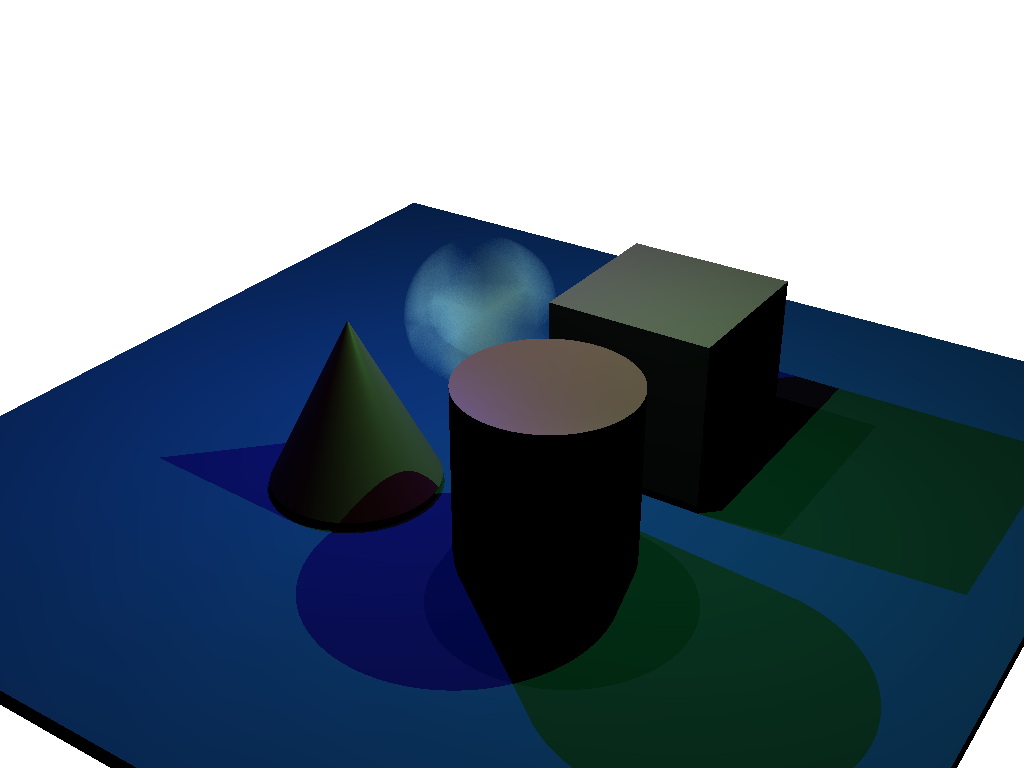
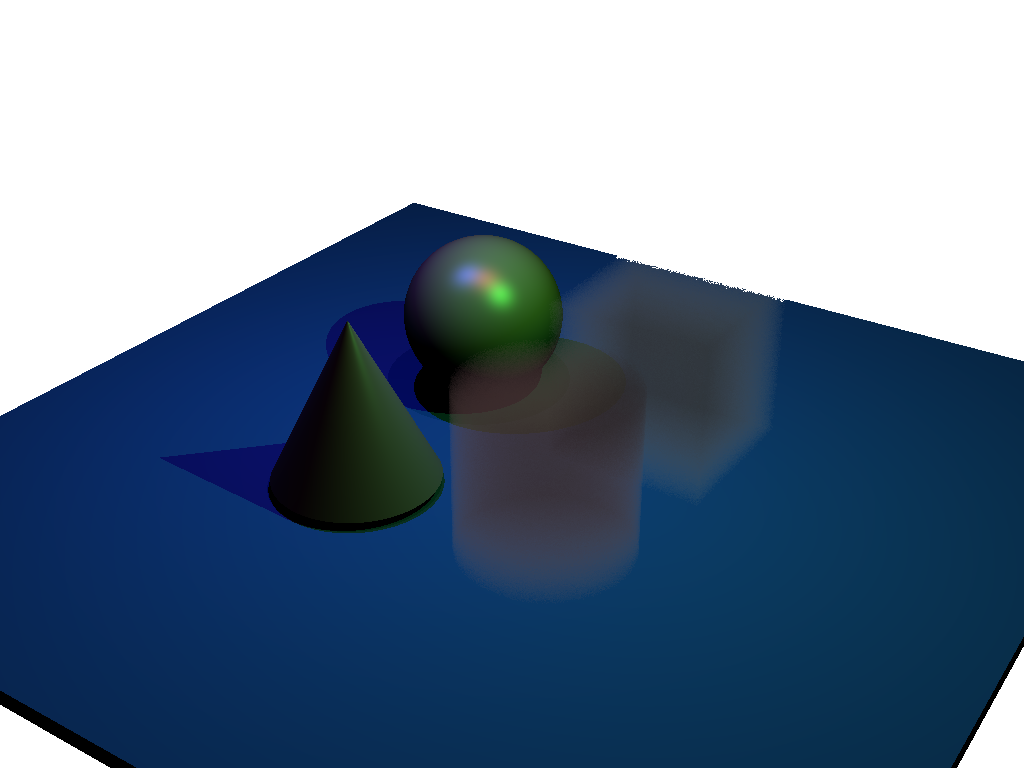
better raytracer lighting, support for json density

diff --git a/src/utils/shapes.h b/src/utils/shapes.h
@@ -232,7 +232,7 @@ ScenePrimitive Cube(PrimitiveType type,
                 if (p.x + intersect.intersectT * d.x <= compPoint && p.x + intersect.intersectT * d.x >= -compPoint &&
                     p.y + intersect.intersectT * d.y <= compPoint && p.y + intersect.intersectT * d.y >= -compPoint &&
                     p.z + intersect.intersectT * d.z <= compPoint && p.z + intersect.intersectT * d.z >= -compPoint) {
-                    validIntersects.push_back(IntersectionData(true, intersect.intersectT, intersect.normAtIntForObj, intersect.uvCoords));
+                    validIntersects.push_back(IntersectionData(true, intersect.intersectT, intersect.normAtIntForObj, intersect.uvCoords, material.solid));
                 } else {
                     validIntersects.push_back(IntersectionData(false, FLT_MAX, glm::vec4(0)));
                 }
@@ -244,7 +244,6 @@ ScenePrimitive Cube(PrimitiveType type,
             for(IntersectionData validInt : validIntersects) {
                 if(smallestIntersect.intersectT > validInt.intersectT) {
                     smallestIntersect = validInt;
-
                 }
             }
 
@@ -257,7 +256,7 @@ ScenePrimitive Cube(PrimitiveType type,
                 return 0.f;
             }
 
-            return SOLID_ALPHA;
+            return material.density;
         }
     };
 }
@@ -297,7 +296,7 @@ ScenePrimitive Sphere(PrimitiveType type,
                     uCoord = 0.5;
                 }
 
-                return IntersectionData(true, useRoot, glm::normalize(normAtPoint), glm::vec2(uCoord, vCoord), false);
+                return IntersectionData(true, useRoot, glm::normalize(normAtPoint), glm::vec2(uCoord, vCoord));
             } else if (discrim == 0.0) {
                 float useRoot = (-1.0 * valB + sqrt(discrim)) / (2.0 * valA);
 
@@ -314,7 +313,7 @@ ScenePrimitive Sphere(PrimitiveType type,
                     uCoord = 0.5;
                 }
 
-                return IntersectionData(true, useRoot, glm::normalize(normAtPoint), glm::vec2(uCoord, vCoord), false);
+                return IntersectionData(true, useRoot, glm::normalize(normAtPoint), glm::vec2(uCoord, vCoord), material.solid);
             } else {
                 return IntersectionData(false, FLT_MAX, glm::vec4(0));
             }
@@ -326,7 +325,8 @@ ScenePrimitive Sphere(PrimitiveType type,
                 return 0.f;
             }
 
-            return P_NOISE.computePerlin3d(p.x, p.y, p.z);
+            // return P_NOISE.computePerlin3d(p.x, p.y, p.z);
+            return material.density;
         }
     };
 }
@@ -364,7 +364,7 @@ ScenePrimitive Cylinder(PrimitiveType type,
                     float thetaU = atan2(p.z + root1 * d.z, p.x + root1 * d.x);
                     float uCoord = thetaU < 0 ? -1*thetaU/(2*M_PI) : 1 - (thetaU/(2*M_PI));
 
-                    intersects.push_back(IntersectionData(true, root1, glm::normalize(normVec), glm::vec2(uCoord, 0.5 + p.y + root1 * d.y)));
+                    intersects.push_back(IntersectionData(true, root1, glm::normalize(normVec), glm::vec2(uCoord, 0.5 + p.y + root1 * d.y), material.solid));
                 }
 
                 if(p.y + root2 * d.y <= compPoint && p.y + root2 * d.y >= -compPoint) {
@@ -375,7 +375,7 @@ ScenePrimitive Cylinder(PrimitiveType type,
                     float thetaU = atan2(p.z + root2 * d.z, p.x + root2 * d.x);
                     float uCoord = thetaU < 0 ? -1*thetaU/(2*M_PI) : 1 - (thetaU/(2*M_PI));
 
-                    intersects.push_back(IntersectionData(true, root2, glm::normalize(normVec), glm::vec2(uCoord, 0.5 + p.y + root2 * d.y)));
+                    intersects.push_back(IntersectionData(true, root2, glm::normalize(normVec), glm::vec2(uCoord, 0.5 + p.y + root2 * d.y), material.solid));
                 }
             } else if (discrim == 0.0) {
                 float root1 = (-1.0 * valBSide + sqrt(discrim)) / (2.0 * valASide);
@@ -388,7 +388,7 @@ ScenePrimitive Cylinder(PrimitiveType type,
                     float thetaU = atan2(p.z + root1 * d.z, p.x + root1 * d.x);
                     float uCoord = thetaU < 0 ? -1*thetaU/(2*M_PI) : 1 - (thetaU/(2*M_PI));
 
-                    intersects.push_back(IntersectionData(true, root1, glm::normalize(normVec), glm::vec2(uCoord, 0.5 + p.y + root1 * d.y)));
+                    intersects.push_back(IntersectionData(true, root1, glm::normalize(normVec), glm::vec2(uCoord, 0.5 + p.y + root1 * d.y), material.solid));
                 }
             } else {
                 intersects.push_back(IntersectionData(false, FLT_MAX, glm::vec4(0)));
@@ -399,11 +399,11 @@ ScenePrimitive Cylinder(PrimitiveType type,
             float bottomCapT = (-0.5 - p.y) / d.y;
 
             if(pow(p.x + topCapT * d.x, 2) + pow(p.z + topCapT * d.z, 2) <= 0.25) {
-                intersects.push_back(IntersectionData(true, topCapT, glm::vec4(0, 1, 0, 0), glm::vec2((p.x + topCapT * d.x) + 0.5, -1.0 * ((p.z + topCapT * d.z) - 0.5))));
+                intersects.push_back(IntersectionData(true, topCapT, glm::vec4(0, 1, 0, 0), glm::vec2((p.x + topCapT * d.x) + 0.5, -1.0 * ((p.z + topCapT * d.z) - 0.5)), material.solid));
             }
 
             if(pow(p.x + bottomCapT * d.x, 2) + pow(p.z + bottomCapT * d.z, 2) <= 0.25) {
-                intersects.push_back(IntersectionData(true, bottomCapT, glm::vec4(0, -1, 0, 0), glm::vec2((p.x + bottomCapT * d.x) - 0.5, (p.z + bottomCapT * d.z) - 0.5)));
+                intersects.push_back(IntersectionData(true, bottomCapT, glm::vec4(0, -1, 0, 0), glm::vec2((p.x + bottomCapT * d.x) - 0.5, (p.z + bottomCapT * d.z) - 0.5), material.solid));
             }
 
             IntersectionData smallestIntersect = IntersectionData(false, FLT_MAX, glm::vec4(0));
@@ -411,8 +411,7 @@ ScenePrimitive Cylinder(PrimitiveType type,
             //get the nearest intersect
             for(IntersectionData intersect : intersects) {
                 if(intersect.hasIntersect && intersect.intersectT < smallestIntersect.intersectT) {
-                    IntersectionData newInter = IntersectionData(intersect.hasIntersect, intersect.intersectT, intersect.normAtIntForObj, intersect.uvCoords, true);
-                    smallestIntersect = newInter;
+                    smallestIntersect = intersect;
                 }
             }
 
@@ -426,7 +425,7 @@ ScenePrimitive Cylinder(PrimitiveType type,
             }
 
             // return (float)rand()/((float)RAND_MAX / 1.f);
-            return SOLID_ALPHA;
+            return material.density;
         }
     };
 }
@@ -464,7 +463,7 @@ ScenePrimitive Cone(PrimitiveType type,
                     float thetaU = atan2(p.z + root1 * d.z, p.x + root1 * d.x);
                     float uCoord = thetaU < 0 ? -1*thetaU/(2*M_PI) : 1 - (thetaU/(2*M_PI));
 
-                    intersects.push_back(IntersectionData(true, root1, glm::normalize(normVec), glm::vec2(uCoord, 0.5 + p.y + root1 * d.y)));
+                    intersects.push_back(IntersectionData(true, root1, glm::normalize(normVec), glm::vec2(uCoord, 0.5 + p.y + root1 * d.y), material.solid));
                 }
 
                 if((p.y + root2 * d.y <= compPoint) && (p.y + root2 * d.y) >= -compPoint) {
@@ -476,7 +475,7 @@ ScenePrimitive Cone(PrimitiveType type,
                     float thetaU = atan2(p.z + root2 * d.z, p.x + root2 * d.x);
                     float uCoord = thetaU < 0 ? -1*thetaU/(2*M_PI) : 1 - (thetaU/(2*M_PI));
 
-                    intersects.push_back(IntersectionData(true, root2, glm::normalize(normVec), glm::vec2(uCoord, 0.5 + p.y + root2 * d.y)));
+                    intersects.push_back(IntersectionData(true, root2, glm::normalize(normVec), glm::vec2(uCoord, 0.5 + p.y + root2 * d.y), material.solid));
                 }
             } else if (discrim == 0.0) {
                 float root1 = (-1.0 * valB + sqrt(discrim)) / (2.0 * valA);
@@ -490,7 +489,7 @@ ScenePrimitive Cone(PrimitiveType type,
                     float thetaU = atan2(p.z + root1 * d.z, p.x + root1 * d.x);
                     float uCoord = thetaU < 0 ? -1*thetaU/(2*M_PI) : 1 - (thetaU/(2*M_PI));
 
-                    intersects.push_back(IntersectionData(true, root1, glm::normalize(normVec), glm::vec2(uCoord, 0.5 + p.y + root1 * d.y)));
+                    intersects.push_back(IntersectionData(true, root1, glm::normalize(normVec), glm::vec2(uCoord, 0.5 + p.y + root1 * d.y), material.solid));
                 }
             } else {
                 intersects.push_back(IntersectionData(false, FLT_MAX, glm::vec4(0)));
@@ -500,7 +499,7 @@ ScenePrimitive Cone(PrimitiveType type,
             float baseT = (-0.5 - p.y) / d.y;
 
             if(pow(p.x + baseT * d.x, 2) + pow(p.z + baseT * d.z, 2) <= 0.25) {
-                intersects.push_back(IntersectionData(true, baseT, glm::vec4(0, -1, 0, 0), glm::vec2((p.x + baseT * d.x) + 0.5, (p.z + baseT * d.z) + 0.5)));
+                intersects.push_back(IntersectionData(true, baseT, glm::vec4(0, -1, 0, 0), glm::vec2((p.x + baseT * d.x) + 0.5, (p.z + baseT * d.z) + 0.5), material.solid));
             }
 
             IntersectionData smallestIntersect = IntersectionData(false, FLT_MAX, glm::vec4(0));
@@ -521,7 +520,7 @@ ScenePrimitive Cone(PrimitiveType type,
                 return 0.f;
             }
 
-            return SOLID_ALPHA;
+            return material.density;
         }
     };
 }

diff --git a/src/raytracer/raytracer.cpp b/src/raytracer/raytracer.cpp
@@ -313,10 +313,10 @@ glm::vec4 RayTracer::traceMarchOrBackground(glm::vec4 rayOrigin, glm::vec4 rayDi
 
     if(nearestIntShapeIdx < 0) {
         return BACKGROUND_COLOR;
-    } else if (nearestIntersect.solid) {
+    } else if (relevantShapes[nearestIntShapeIdx].primitive.material.solid) {
         return recurRayTrace(rayOrigin, rayDirection, scene, relevantShapes, droppedShapeIdx, recLevel);
     } else {
-        return recurRayMarch(rayOrigin, rayDirection, scene, 0.05, 0, 1.f, glm::vec4(0,0,0,0));
+        return recurRayMarch(rayOrigin, rayDirection, scene, 0.05, 0, 1.f, glm::vec4(0,0,0,0), 0);
     }
 
 }
@@ -457,14 +457,22 @@ std::vector<float> findDensityDataForShapes(std::vector<RenderShapeData> shapes,
  * @return a vector representing the illumination values seen by the ray at some origin
  */
 
-glm::vec4 RayTracer::recurRayMarch(glm::vec4 rayOrigin, glm::vec4 rayDirection, const RayTraceScene &scene, float stepSize, int numOfSteps, float transparency, glm::vec4 pixelResult) {
+glm::vec4 RayTracer::recurRayMarch(glm::vec4 rayOrigin, glm::vec4 rayDirection, const RayTraceScene &scene, float stepSize, int numOfSteps, float transparency, glm::vec4 pixelResult, float accContactDist) {
     if(transparency < TRANSPARENCY_THRESH) {
-        return glm::vec4(glm::vec3(pixelResult), 1);
+        if(accContactDist > 0) {
+            return glm::vec4(glm::vec3(pixelResult / accContactDist), 1);
+        } else {
+            return glm::vec4(glm::vec3(pixelResult), 1);
+        }
     } else if (numOfSteps > STEP_THRESH) {
         if(pixelResult.r > 1 || pixelResult.g > 1 || pixelResult.b > 1) {
             return glm::vec4(1,0,0,1);
         }
-        return glm::vec4(glm::vec3((BACKGROUND_COLOR * transparency) + pixelResult), 1.f);
+        if(accContactDist > 0) {
+            return glm::vec4(glm::vec3((BACKGROUND_COLOR * transparency) + (pixelResult / accContactDist)), 1.f);
+        } else {
+            return glm::vec4(glm::vec3((BACKGROUND_COLOR * transparency) + (pixelResult)), 1.f);
+        }
     } else {
         std::vector<float> objectDensities(scene.getShapes().size());
 
@@ -531,8 +539,12 @@ glm::vec4 RayTracer::recurRayMarch(glm::vec4 rayOrigin, glm::vec4 rayDirection, 
                                                                       0);
 
             //todo: blend!
+            if(accContactDist > 0) {
+                pixelResult = (1 - transparency) * (pixelResult / accContactDist);
+            }
             pixelResult += transparency * illuminatedPixel;
-            return recurRayMarch(rayEndpoint, rayDirection, scene, stepSize, numOfSteps + 1, 0, pixelResult);
+            // return pixelResult;
+            return recurRayMarch(rayEndpoint, rayDirection, scene, stepSize, numOfSteps + 1, 0, pixelResult, 0);
 
         } else if(highestDensity > 0) {
             //do lighting...
@@ -565,11 +577,12 @@ glm::vec4 RayTracer::recurRayMarch(glm::vec4 rayOrigin, glm::vec4 rayDirection, 
             // pixelResult += currentTransparency * accLightEffect * scene.getShapes().at(highestDensityIdx).primitive.material.cDiffuse * stepSize;
             pixelResult += accLightEffect * transparency * scene.getShapes().at(highestDensityIdx).primitive.material.cDiffuse;
             // pixelResult += scene.getGlobalData().ka * scene.getShapes().at(highestDensityIdx).primitive.material.cAmbient * stepSize;
+            return recurRayMarch(rayEndpoint, rayDirection, scene, stepSize, numOfSteps + 1, currentTransparency, pixelResult, accContactDist + stepSize);
         }
 
 
 
-        return recurRayMarch(rayEndpoint, rayDirection, scene, stepSize, numOfSteps + 1, currentTransparency, pixelResult);
+        return recurRayMarch(rayEndpoint, rayDirection, scene, stepSize, numOfSteps + 1, currentTransparency, pixelResult, accContactDist);
     }
 }
 

diff --git a/src/utils/scenefilereader.cpp b/src/utils/scenefilereader.cpp
@@ -804,7 +804,7 @@ bool ScenefileReader::parsePrimitive(const QJsonObject &prim, SceneNode *node) {
     QStringList requiredFields = {"type"};
     QStringList optionalFields = {
         "meshFile", "ambient", "diffuse", "specular", "reflective", "transparent", "shininess", "ior",
-        "blend", "textureFile", "textureU", "textureV", "bumpMapFile", "bumpMapU", "bumpMapV"};
+        "blend", "density", "solid", "textureFile", "textureU", "textureV", "bumpMapFile", "bumpMapU", "bumpMapV"};
 
     QStringList allFields = requiredFields + optionalFields;
     for (auto field : prim.keys()) {
@@ -994,6 +994,24 @@ bool ScenefileReader::parsePrimitive(const QJsonObject &prim, SceneNode *node) {
         }
 
         mat.blend = (float)prim["blend"].toDouble();
+    }
+
+    if (prim.contains("density")) {
+        if (!prim["density"].isDouble()) {
+            std::cout << "primitive density must be of type float" << std::endl;
+            return false;
+        }
+
+        mat.density = (float)prim["density"].toDouble();
+    }
+
+    if (prim.contains("solid")) {
+        if (!prim["solid"].isBool()) {
+            std::cout << "primitive density must be of type float" << std::endl;
+            return false;
+        }
+
+        mat.solid = (bool)prim["solid"].toBool();
     }
 
     if (prim.contains("textureFile")) {

diff --git a/src/raytracer/raytracer.h b/src/raytracer/raytracer.h
@@ -51,7 +51,7 @@ public:
                            const RayTraceScene &scene,
                            int recLevel);
 
-    glm::vec4 recurRayMarch(glm::vec4 rayOrigin, glm::vec4 rayDirection, const RayTraceScene &scene, float stepSize, int numOfSteps, float transparency, glm::vec4 pixelResult);
+    glm::vec4 recurRayMarch(glm::vec4 rayOrigin, glm::vec4 rayDirection, const RayTraceScene &scene, float stepSize, int numOfSteps, float transparency, glm::vec4 pixelResult, float accContactDist);
 
     glm::vec4 traceMarchOrBackground(glm::vec4 rayOrigin, glm::vec4 rayDirection, const RayTraceScene &scene, std::vector<RenderShapeData> relevantShapes, int droppedShapeIdx, int recLevel, float transparency);
 

diff --git a/src/utils/scenedata.h b/src/utils/scenedata.h
@@ -133,6 +133,7 @@ struct SceneMaterial {
     SceneFileMap bumpMap; // Not used
 
     float density = 10000;
+    bool solid = true;
 
     void clear()
     {
